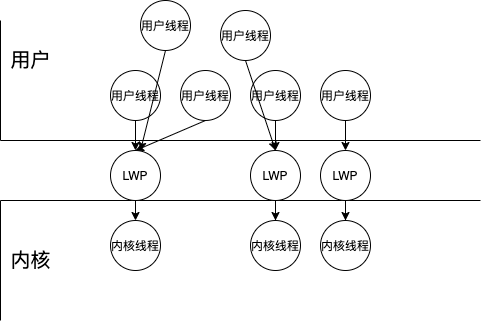
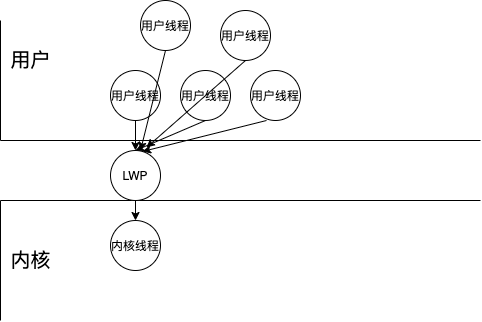
Site updated: 2021-12-10 16:46:02

diff --git a/2021/12/08/Golang协程调度器之GMP模型/index.html b/2021/12/08/Golang协程调度器之GMP模型/index.html
@@ -34,7 +34,7 @@
 <meta property="og:image" content="https://songrenkun.github.io/2021/12/08/Golang%E5%8D%8F%E7%A8%8B%E8%B0%83%E5%BA%A6%E5%99%A8%E4%B9%8BGMP%E6%A8%A1%E5%9E%8B/GMP2.png">
 <meta property="og:image" content="https://songrenkun.github.io/2021/12/08/Golang%E5%8D%8F%E7%A8%8B%E8%B0%83%E5%BA%A6%E5%99%A8%E4%B9%8BGMP%E6%A8%A1%E5%9E%8B/GMP3.png">
 <meta property="article:published_time" content="2021-12-08T08:34:10.000Z">
-<meta property="article:modified_time" content="2021-12-10T08:41:37.824Z">
+<meta property="article:modified_time" content="2021-12-10T08:45:45.883Z">
 <meta property="article:author" content="老K">
 <meta property="article:tag" content="Go">
 <meta name="twitter:card" content="summary">
@@ -204,7 +204,7 @@
                   <i class="fa fa-calendar-check-o"></i>
                 </span>
                 <span class="post-meta-item-text">更新于</span>
-                <time title="修改时间：2021-12-10 16:41:37" itemprop="dateModified" datetime="2021-12-10T16:41:37+08:00">2021-12-10</time>
+                <time title="修改时间：2021-12-10 16:45:45" itemprop="dateModified" datetime="2021-12-10T16:45:45+08:00">2021-12-10</time>
               </span>
             <span class="post-meta-item">
               <span class="post-meta-item-icon">
@@ -267,12 +267,11 @@
 </li>
 </ul>
 <p>##线程模型<br>用户线程想要执行，不可避免的需要CPU等资源，所以需要将用户线程对应到内核线程上来进行执行。</p>
-<h3 id="1-一对一模型"><a href="#1-一对一模型" class="headerlink" title="1.一对一模型"></a>1.一对一模型</h3><p><img src="/2021/12/08/Golang%E5%8D%8F%E7%A8%8B%E8%B0%83%E5%BA%A6%E5%99%A8%E4%B9%8BGMP%E6%A8%A1%E5%9E%8B/GMP4.png" alt="GMP模型"></p>
+<h3 id="一对一模型"><a href="#一对一模型" class="headerlink" title="一对一模型"></a>一对一模型</h3><p><img src="/2021/12/08/Golang%E5%8D%8F%E7%A8%8B%E8%B0%83%E5%BA%A6%E5%99%A8%E4%B9%8BGMP%E6%A8%A1%E5%9E%8B/GMP4.png" alt="GMP模型"></p>
 <p>一个用户线程关联一个内核线程，由内核来管理线程。这种模型缺点很明显，创建一个用户线程，就需要一个内核线程对应，那么创建线程的开销就会很大，自然也限制了可创建线程的数量</p>
-<h3 id="2-多对一模型"><a href="#2-多对一模型" class="headerlink" title="2. 多对一模型"></a>2. 多对一模型</h3><p><img src="/2021/12/08/Golang%E5%8D%8F%E7%A8%8B%E8%B0%83%E5%BA%A6%E5%99%A8%E4%B9%8BGMP%E6%A8%A1%E5%9E%8B/GMP5.png" alt="GMP模型"></p>
+<h3 id="多对一模型"><a href="#多对一模型" class="headerlink" title="多对一模型"></a>多对一模型</h3><p><img src="/2021/12/08/Golang%E5%8D%8F%E7%A8%8B%E8%B0%83%E5%BA%A6%E5%99%A8%E4%B9%8BGMP%E6%A8%A1%E5%9E%8B/GMP5.png" alt="GMP模型"></p>
 <p>多个用户线程关联一个内核线程，用户的线程的调度可以在用户态来完成，可以避免频繁的切换内核态和用户态，提升线程效率。但是当需要进行阻塞式的系统调用时，所有的线程都会停止进行等待。</p>
-<p>###3. 多对多模型</p>
-<p><img src="/2021/12/08/Golang%E5%8D%8F%E7%A8%8B%E8%B0%83%E5%BA%A6%E5%99%A8%E4%B9%8BGMP%E6%A8%A1%E5%9E%8B/GMP6.png" alt="GMP模型"></p>
+<h3 id="多对多模型"><a href="#多对多模型" class="headerlink" title="多对多模型"></a>多对多模型</h3><p><img src="/2021/12/08/Golang%E5%8D%8F%E7%A8%8B%E8%B0%83%E5%BA%A6%E5%99%A8%E4%B9%8BGMP%E6%A8%A1%E5%9E%8B/GMP6.png" alt="GMP模型"></p>
 <p>有效避免前两者的弊端，大部分时间可以在用户态来完成，当发生系统调用内核线程阻塞时，可以将用户线程与其他内核线程关联去执行。对于这种模型，就需要用户自己来实现复杂的调度器。Golang 就是采用了多对多的模型，所以go需要自己实现复杂的调度器。</p>
 <h2 id="GMP模型"><a href="#GMP模型" class="headerlink" title="GMP模型"></a>GMP模型</h2><p>go的调度器的设计采用了<strong>GMP模型</strong> </p>
 <ul>
@@ -438,7 +437,7 @@
 
       <!--noindex-->
       <div class="post-toc-wrap sidebar-panel">
-          <div class="post-toc motion-element"><ol class="nav"><li class="nav-item nav-level-2"><a class="nav-link" href="#%E7%BA%BF%E7%A8%8B"><span class="nav-number">1.</span> <span class="nav-text">线程</span></a><ol class="nav-child"><li class="nav-item nav-level-3"><a class="nav-link" href="#1-%E4%B8%80%E5%AF%B9%E4%B8%80%E6%A8%A1%E5%9E%8B"><span class="nav-number">1.1.</span> <span class="nav-text">1.一对一模型</span></a></li><li class="nav-item nav-level-3"><a class="nav-link" href="#2-%E5%A4%9A%E5%AF%B9%E4%B8%80%E6%A8%A1%E5%9E%8B"><span class="nav-number">1.2.</span> <span class="nav-text">2. 多对一模型</span></a></li></ol></li><li class="nav-item nav-level-2"><a class="nav-link" href="#GMP%E6%A8%A1%E5%9E%8B"><span class="nav-number">2.</span> <span class="nav-text">GMP模型</span></a></li></ol></div>
+          <div class="post-toc motion-element"><ol class="nav"><li class="nav-item nav-level-2"><a class="nav-link" href="#%E7%BA%BF%E7%A8%8B"><span class="nav-number">1.</span> <span class="nav-text">线程</span></a><ol class="nav-child"><li class="nav-item nav-level-3"><a class="nav-link" href="#%E4%B8%80%E5%AF%B9%E4%B8%80%E6%A8%A1%E5%9E%8B"><span class="nav-number">1.1.</span> <span class="nav-text">一对一模型</span></a></li><li class="nav-item nav-level-3"><a class="nav-link" href="#%E5%A4%9A%E5%AF%B9%E4%B8%80%E6%A8%A1%E5%9E%8B"><span class="nav-number">1.2.</span> <span class="nav-text">多对一模型</span></a></li><li class="nav-item nav-level-3"><a class="nav-link" href="#%E5%A4%9A%E5%AF%B9%E5%A4%9A%E6%A8%A1%E5%9E%8B"><span class="nav-number">1.3.</span> <span class="nav-text">多对多模型</span></a></li></ol></li><li class="nav-item nav-level-2"><a class="nav-link" href="#GMP%E6%A8%A1%E5%9E%8B"><span class="nav-number">2.</span> <span class="nav-text">GMP模型</span></a></li></ol></div>
       </div>
       <!--/noindex-->
 

diff --git a/index.html b/index.html
@@ -194,7 +194,7 @@
                   <i class="fa fa-calendar-check-o"></i>
                 </span>
                 <span class="post-meta-item-text">更新于</span>
-                <time title="修改时间：2021-12-10 16:41:37" itemprop="dateModified" datetime="2021-12-10T16:41:37+08:00">2021-12-10</time>
+                <time title="修改时间：2021-12-10 16:45:45" itemprop="dateModified" datetime="2021-12-10T16:45:45+08:00">2021-12-10</time>
               </span>
             <span class="post-meta-item">
               <span class="post-meta-item-icon">
